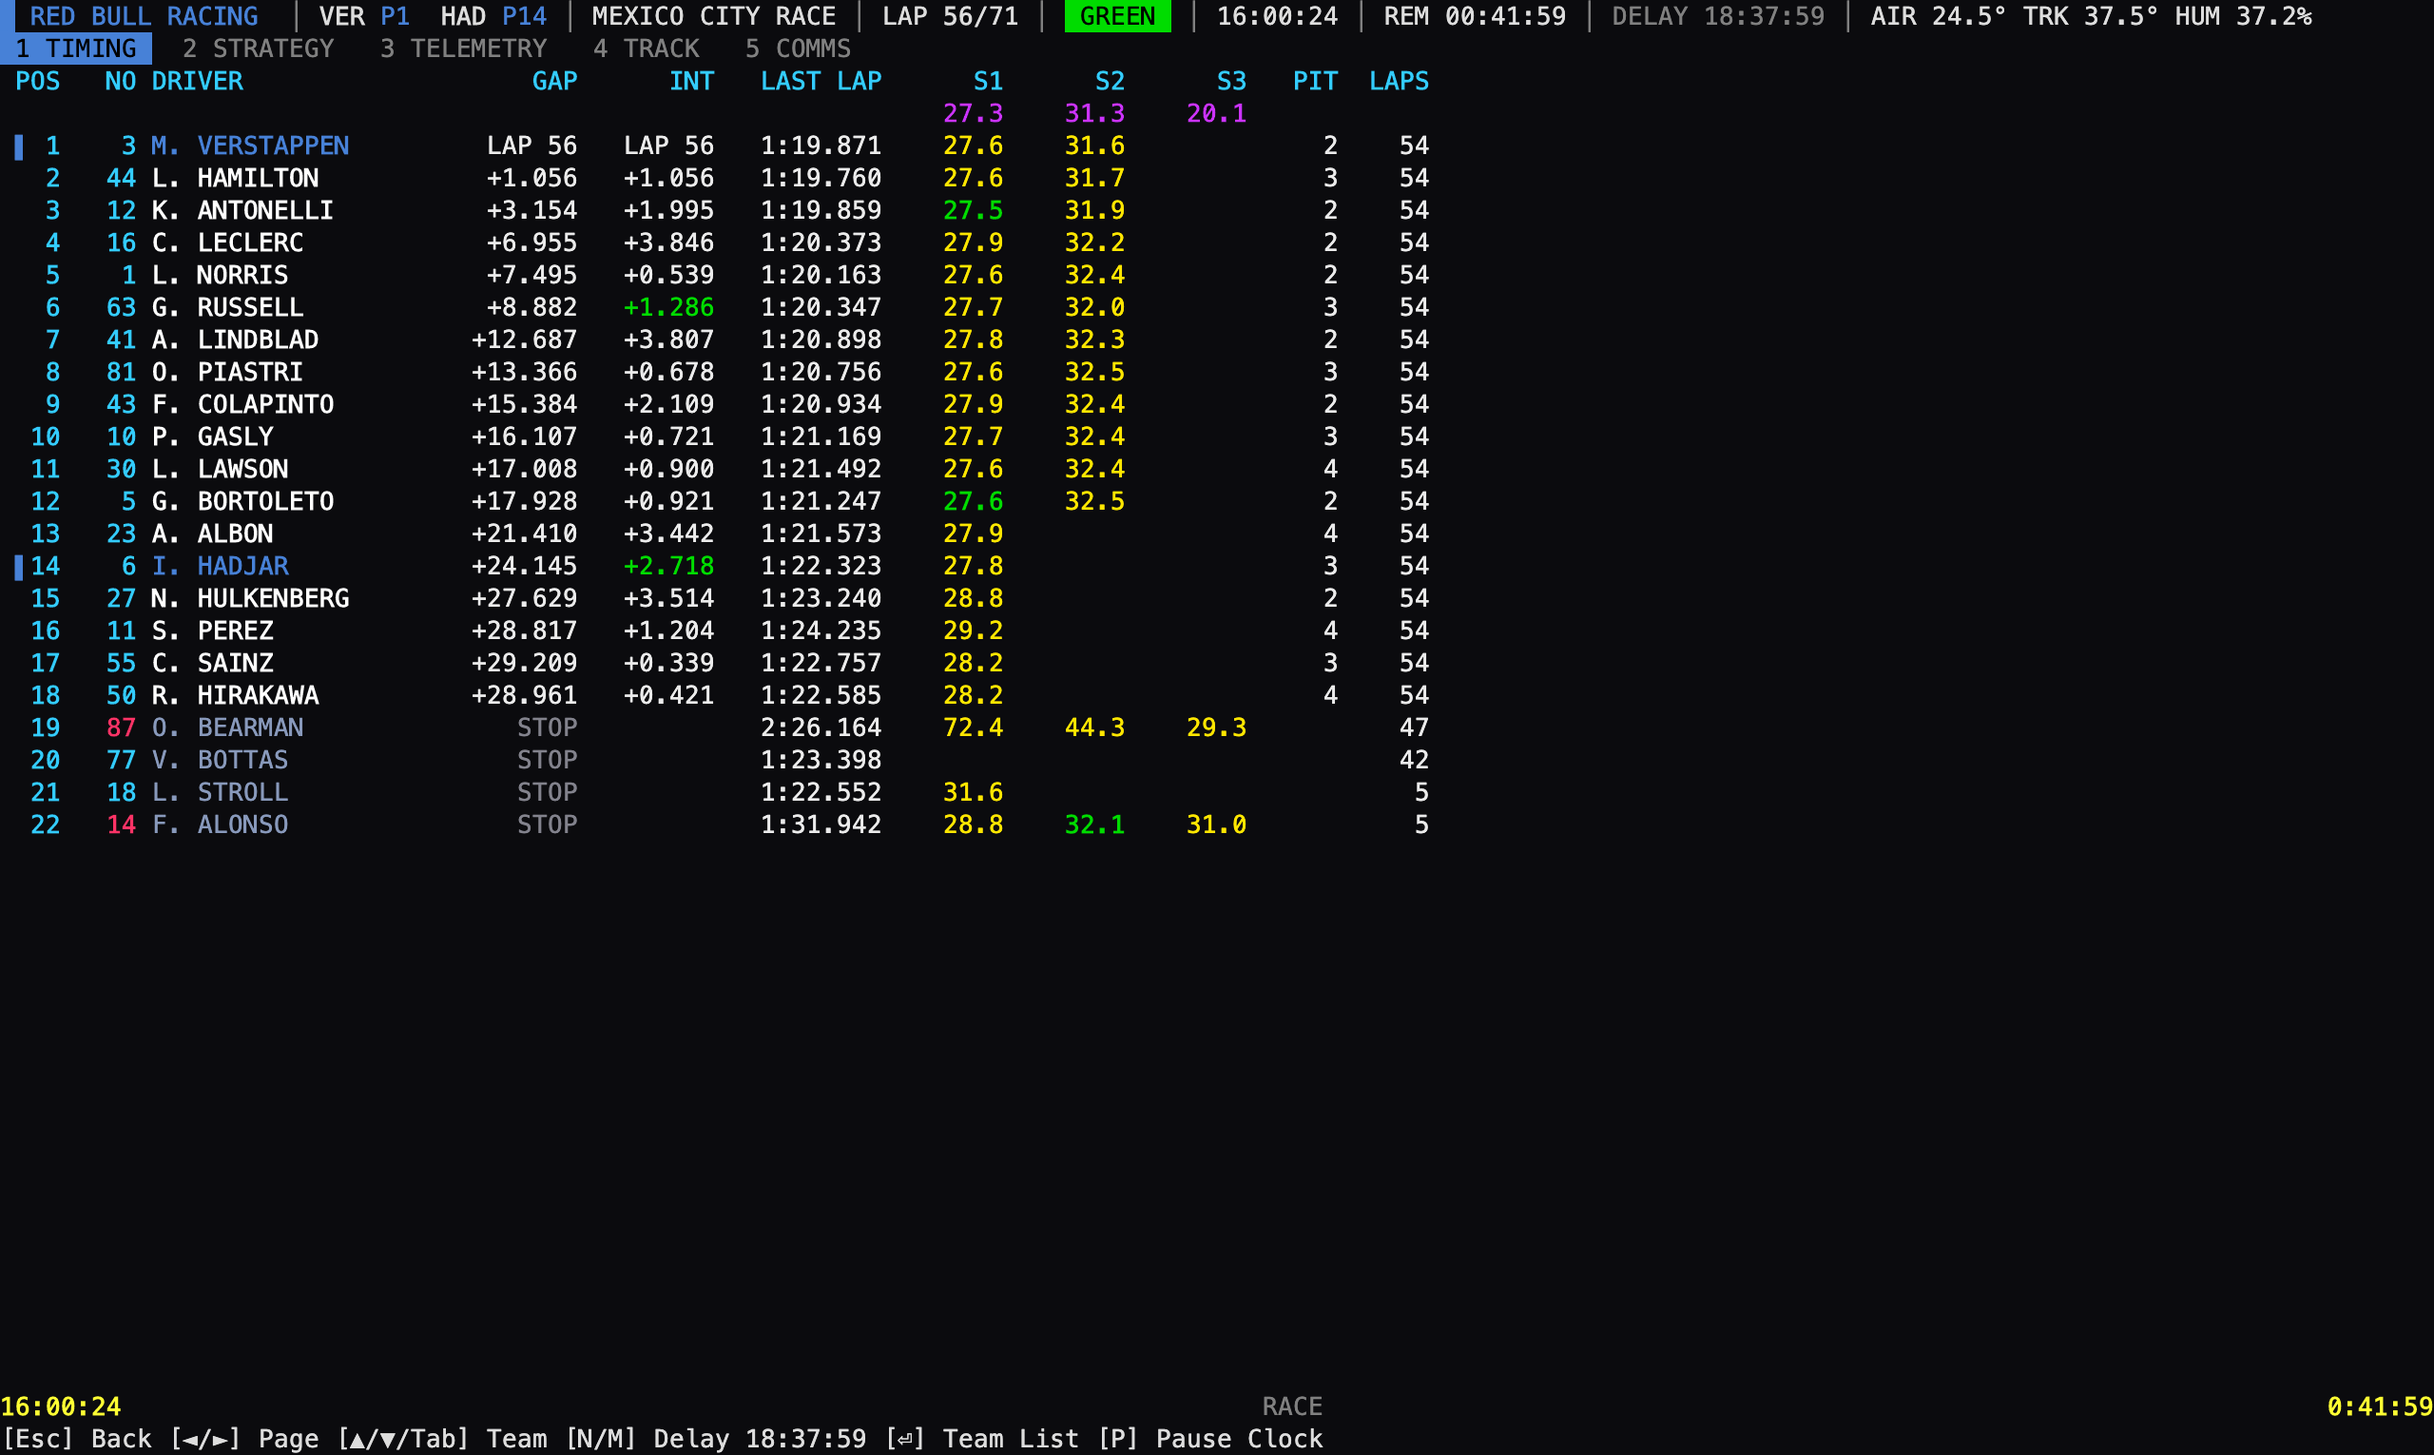
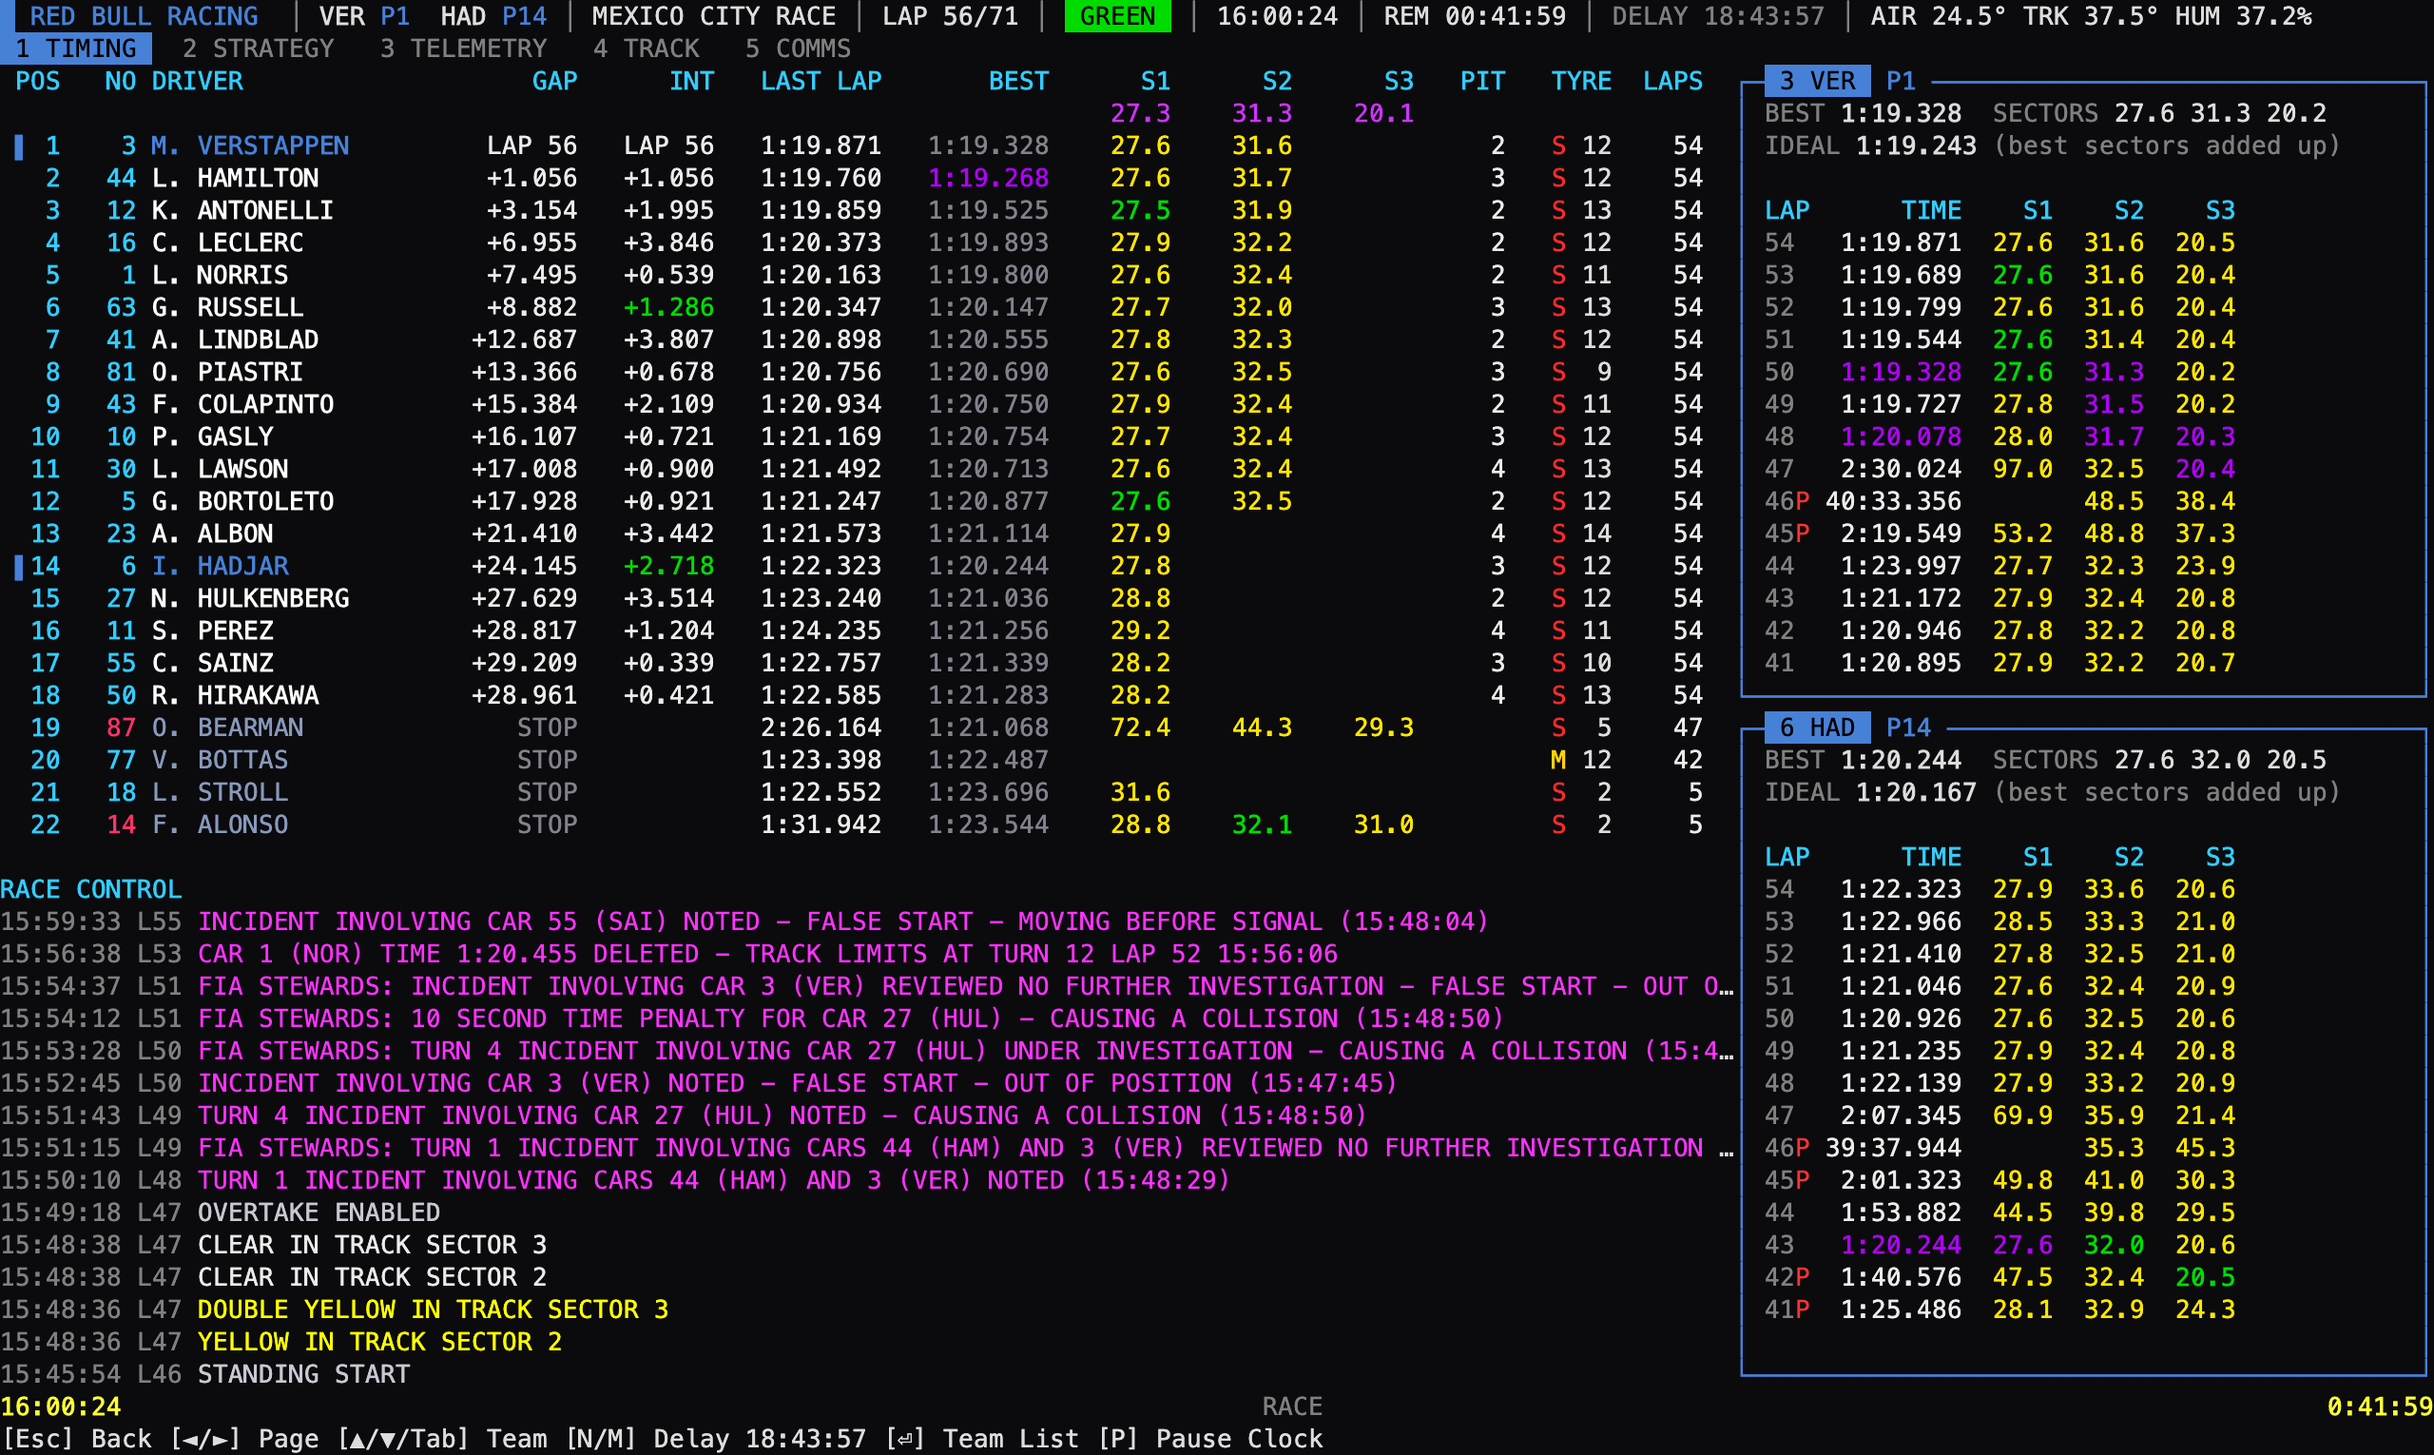
Use the timing page's spare space
On wide terminals (140+ columns) the timing monitor gains a panel for
each of the team's cars, with its last laps and sector times coloured
like the monitor, best sectors and ideal lap, and race control's latest
messages fill the space under the table. From 120 columns the table
also shows each car's best lap and current tyre. Narrower terminals
keep the plain monitor.

diff --git a/Pitwall.Console/Display/PitWall/PitWallTimingDisplay.cs b/Pitwall.Console/Display/PitWall/PitWallTimingDisplay.cs
@@ -8,7 +8,9 @@ namespace Pitwall.Console;
 /// A copy of the official timing monitor that every pit wall has: black background, cyan
 /// headers and positions, white driver names, sector times coloured purple/green/yellow, the
 /// session-best sectors above the sector columns, and the clocks in yellow along the bottom.
-/// The selected team's cars are marked in the team colour.
+/// The selected team's cars are marked in the team colour. On wide terminals the team's cars
+/// get a panel each with their recent laps and sectors, and race control's latest messages
+/// fill the space under the table.
 /// </summary>
 public sealed class PitWallTimingDisplay(
     PitWallComponents components,
@@ -17,12 +19,19 @@ public sealed class PitWallTimingDisplay(
     SessionInfoProcessor sessionInfo,
     ExtrapolatedClockProcessor extrapolatedClock,
     TimingSmoother smoother,
+    TimingAppDataProcessor timingAppData,
+    RaceControlMessageProcessor raceControl,
     IDateTimeProvider dateTimeProvider
 ) : IDisplay
 {
     private const string Cyan = "#33ccff";
     private const string Purple = "#cc33ff";
     private const string Yellow = "#ffff33";
+
+    // Below this width the team panels would squeeze the table, so only the table is shown
+    private const int SidePanelMinWidth = 140;
+    private const int SidePanelWidth = 46;
+    private const int ExtraColumnsMinWidth = 120;
 
     public Screen Screen => Screen.PitWallTiming;
 
@@ -32,33 +41,66 @@ public sealed class PitWallTimingDisplay(
     public Task<IRenderable> GetContentAsync()
     {
         var isRace = sessionInfo.Latest.IsRace();
+        // The table's height: one row per car plus the two header lines
+        var tableRows = timingData.Latest.Lines.Count + 2;
+
+        var content = new Responsive(width =>
+        {
+            // Best lap and tyre columns only when the table has room for them
+            var table = isRace ? RaceTable(wide: width >= ExtraColumnsMinWidth) : PracticeTable();
+            return width < SidePanelMinWidth
+                ? table
+                : new Layout("Wide").SplitColumns(
+                    new Layout("Left").SplitRows(
+                        new Layout("Table", table).Size(tableRows),
+                        new Layout("Gap", new Text("")).Size(1),
+                        new Layout("RaceControl", RaceControlPanel())
+                    ),
+                    new Layout("Team", TeamPanels()).Size(SidePanelWidth)
+                );
+        });
+
         var body = new Layout("Timing").SplitRows(
-            new Layout("Table", isRace ? RaceTable() : PracticeTable()),
+            new Layout("Content", content),
             new Layout("Footer", Footer()).Size(1)
         );
         return Task.FromResult(components.Page(Screen, body));
     }
 
-    private IRenderable RaceTable()
+    private IRenderable RaceTable(bool wide)
     {
         var lines = timingData.Latest.GetOrderedLines();
         if (lines.Count == 0)
             return new Text("NO TIMING AVAILABLE", PitWallTheme.Dim);
 
         var best = SessionBestSectors();
-        var table = NewTable(
+        (string, int, Justify, string)[] columns =
+        [
             ("POS", 4, Justify.Right, ""),
             ("NO", 4, Justify.Right, ""),
             ("DRIVER", 18, Justify.Left, ""),
             ("GAP", 9, Justify.Right, ""),
             ("INT", 8, Justify.Right, ""),
             ("LAST LAP", 10, Justify.Right, ""),
+            .. wide
+                ? [("BEST", 10, Justify.Right, "")]
+                : Array.Empty<(string, int, Justify, string)>(),
             ("S1", 7, Justify.Right, best[0]),
             ("S2", 7, Justify.Right, best[1]),
             ("S3", 7, Justify.Right, best[2]),
             ("PIT", 5, Justify.Right, ""),
-            ("LAPS", 5, Justify.Right, "")
-        );
+            .. wide
+                ? [("TYRE", 6, Justify.Right, "")]
+                : Array.Empty<(string, int, Justify, string)>(),
+            ("LAPS", 5, Justify.Right, ""),
+        ];
+        var table = NewTable(columns);
+
+        var fastestLap = lines
+            .Values.Select(x => x.BestLapTime.ToTimeSpan())
+            .Where(x => x > TimeSpan.Zero)
+            .DefaultIfEmpty()
+            .Min();
 
         foreach (var (number, line) in lines)
         {
@@ -79,7 +121,8 @@ public sealed class PitWallTimingDisplay(
                     ? new Style(foreground: PitWallTheme.Green)
                     : PitWallTheme.Normal;
 
-            table.AddRow(
+            List<IRenderable> cells =
+            [
                 Position(number, line),
                 Number(number, line),
                 Name(number, retired),
@@ -92,12 +135,15 @@ public sealed class PitWallTimingDisplay(
                     line.LastLapTime?.Value ?? "",
                     PitWallTheme.TimeStyle(line.LastLapTime, improvedOnly: true)
                 ),
+                .. wide ? [BestLap(line, fastestLap)] : Array.Empty<IRenderable>(),
                 Sector(line, "0"),
                 Sector(line, "1"),
                 Sector(line, "2"),
                 Pit(line),
-                new Text($"{line.NumberOfLaps}", PitWallTheme.Normal)
-            );
+                .. wide ? [Tyre(number)] : Array.Empty<IRenderable>(),
+                new Text($"{line.NumberOfLaps}", PitWallTheme.Normal),
+            ];
+            table.AddRow(cells);
         }
         return table;
     }
@@ -238,6 +284,165 @@ public sealed class PitWallTimingDisplay(
             ),
             _ => new Text($"{line.NumberOfPitStops ?? 0}", PitWallTheme.Normal),
         };
+
+    /// <summary>A car's best lap, in purple if it's the fastest lap of the session.</summary>
+    private static IRenderable BestLap(TimingDataPoint.Driver line, TimeSpan? fastest)
+    {
+        var best = line.BestLapTime.ToTimeSpan();
+        var style =
+            best is not null && best == fastest
+                ? new Style(foreground: PitWallTheme.Purple, decoration: Decoration.Bold)
+                : PitWallTheme.Dim;
+        return new Text(line.BestLapTime?.Value ?? "", style);
+    }
+
+    /// <summary>The tyre the car is on and how many laps old it is, e.g. <c>M 12</c>.</summary>
+    private IRenderable Tyre(string number)
+    {
+        var stint = timingAppData
+            .Latest.Lines.GetValueOrDefault(number)
+            ?.Stints.OrderBy(x => int.TryParse(x.Key, out var i) ? i : 0)
+            .LastOrDefault()
+            .Value;
+        return stint is null
+            ? new Text("")
+            : new Markup($"{PitWallTheme.CompoundMarkup(stint.Compound)} {stint.TotalLaps, 2}");
+    }
+
+    /// <summary>For each of the team's cars, its recent laps with sector times, best sectors and ideal lap.</summary>
+    private IRenderable TeamPanels()
+    {
+        var team = context.Team;
+        if (team is null)
+            return new Text("");
+
+        // One half of the column each: panels in a plain list would each take the full height
+        return new Layout("TeamCars").SplitRows(
+            team.DriverNumbers.Select(number => new Layout(number, CarPanel(number, team)))
+                .ToArray()
+        );
+    }
+
+    private Panel CarPanel(string number, PitWallTeam team)
+    {
+        var driver = context.Driver(number);
+        var hex = PitWallTheme.TeamColour(team.Colour).ToHex();
+        var line = timingData.Latest.Lines.GetValueOrDefault(number);
+
+        var table = new Table().NoBorder().NoSafeBorder();
+        foreach (
+            var (header, width) in new[]
+            {
+                ("LAP", 3),
+                ("TIME", 9),
+                ("S1", 5),
+                ("S2", 5),
+                ("S3", 5),
+            }
+        )
+        {
+            table.AddColumn(
+                new TableColumn(new Markup($"[bold {Cyan}]{header}[/]"))
+                {
+                    Width = width,
+                    Alignment = Justify.Right,
+                    NoWrap = true,
+                    Padding = new Padding(0, 0, 1, 0),
+                }
+            );
+        }
+
+        // The most recent laps, newest first, as recorded at the end of each lap. Newest first so
+        // that a short panel cuts the oldest laps off the bottom.
+        var laps = timingData
+            .DriversByLap.Where(x => x.Value.ContainsKey(number))
+            .OrderByDescending(x => x.Key)
+            .Take(14)
+            .ToList();
+        foreach (var (lap, lines) in laps)
+        {
+            var snapshot = lines[number];
+            var pit = snapshot.IsPitLap ? "[#ff3333]P[/]" : " ";
+            table.AddRow(
+                new Markup($"[grey]{lap}[/]{pit}"),
+                new Text(
+                    snapshot.LastLapTime?.Value ?? "",
+                    PitWallTheme.TimeStyle(snapshot.LastLapTime, improvedOnly: true)
+                ),
+                Sector(snapshot, "0"),
+                Sector(snapshot, "1"),
+                Sector(snapshot, "2")
+            );
+        }
+
+        // Best sectors this session and the lap they would add up to
+        var bests = Enumerable
+            .Range(0, 3)
+            .Select(i =>
+                timingData
+                    .DriversByLap.Values.Select(x => x.GetValueOrDefault(number))
+                    .Append(line)
+                    .Select(x => x?.Sectors.GetValueOrDefault(i.ToString())?.ToTimeSpan())
+                    .Where(x => x > TimeSpan.Zero)
+                    .DefaultIfEmpty()
+                    .Min()
+            )
+            .ToList();
+        var ideal = bests.All(x => x is not null)
+            ? PitWallTheme.LapTime(bests.Sum(x => x!.Value.TotalSeconds))
+            : "–";
+        var bestText = string.Join(
+            " ",
+            bests.Select(x =>
+                x is null
+                    ? "–"
+                    : ShortSector(
+                        x.Value.TotalSeconds.ToString(
+                            System.Globalization.CultureInfo.InvariantCulture
+                        )
+                    )
+            )
+        );
+
+        return new Panel(
+            new Rows(
+                new Markup(
+                    $"[grey]BEST[/] [bold]{line?.BestLapTime?.Value}[/]  [grey]SECTORS[/] {bestText}"
+                ),
+                new Markup($"[grey]IDEAL[/] [bold]{ideal}[/] [grey](best sectors added up)[/]"),
+                new Text(""),
+                table
+            )
+        )
+        {
+            Header = new PanelHeader(
+                $"[black on #{hex}] {driver.RacingNumber} {driver.Tla} [/][bold #{hex}] P{line?.Line} [/]"
+            ),
+            Expand = true,
+            BorderStyle = new Style(foreground: Color.FromHex(hex)),
+        };
+    }
+
+    /// <summary>The latest race control messages, newest first, under the table.</summary>
+    private IRenderable RaceControlPanel()
+    {
+        var offset = string.IsNullOrWhiteSpace(sessionInfo.Latest.GmtOffset)
+            ? TimeSpan.Zero
+            : TimeSpan.Parse(sessionInfo.Latest.GmtOffset);
+        var rows = raceControl
+            .Latest.Messages.Values.OrderByDescending(x => x.Utc)
+            .Take(20)
+            .Select(message =>
+                (IRenderable)
+                    new SingleLine(
+                        $@"[grey]{new DateTimeOffset(message.Utc.DateTime, TimeSpan.Zero).ToOffset(offset):HH\:mm\:ss} {(message.Lap is null ? "   " : $"L{message.Lap, -2}")}[/] "
+                            + $"[{PitWallCommsDisplay.MessageStyle(message).ToMarkup()}]{Markup.Escape(message.Message?.ToUpperInvariant() ?? "")}[/]"
+                    )
+            )
+            .Prepend(new Markup($"[bold {Cyan}]RACE CONTROL[/]"))
+            .ToList();
+        return new Rows(rows);
+    }
 
     /// <summary>The fastest time set in each sector so far this session, to one decimal place.</summary>
     private string[] SessionBestSectors()

diff --git a/Pitwall.Console/Display/PitWall/Responsive.cs b/Pitwall.Console/Display/PitWall/Responsive.cs
@@ -1,0 +1,15 @@
+using Spectre.Console.Rendering;
+
+namespace Pitwall.Console;
+
+/// <summary>
+/// Chooses what to draw from the width available at render time, so a page can add side panels
+/// on wide terminals and drop them on narrow ones.
+/// </summary>
+public sealed class Responsive(Func<int, IRenderable> build) : IRenderable
+{
+    public Measurement Measure(RenderOptions options, int maxWidth) => new(maxWidth, maxWidth);
+
+    public IEnumerable<Segment> Render(RenderOptions options, int maxWidth) =>
+        build(maxWidth).Render(options, maxWidth);
+}
